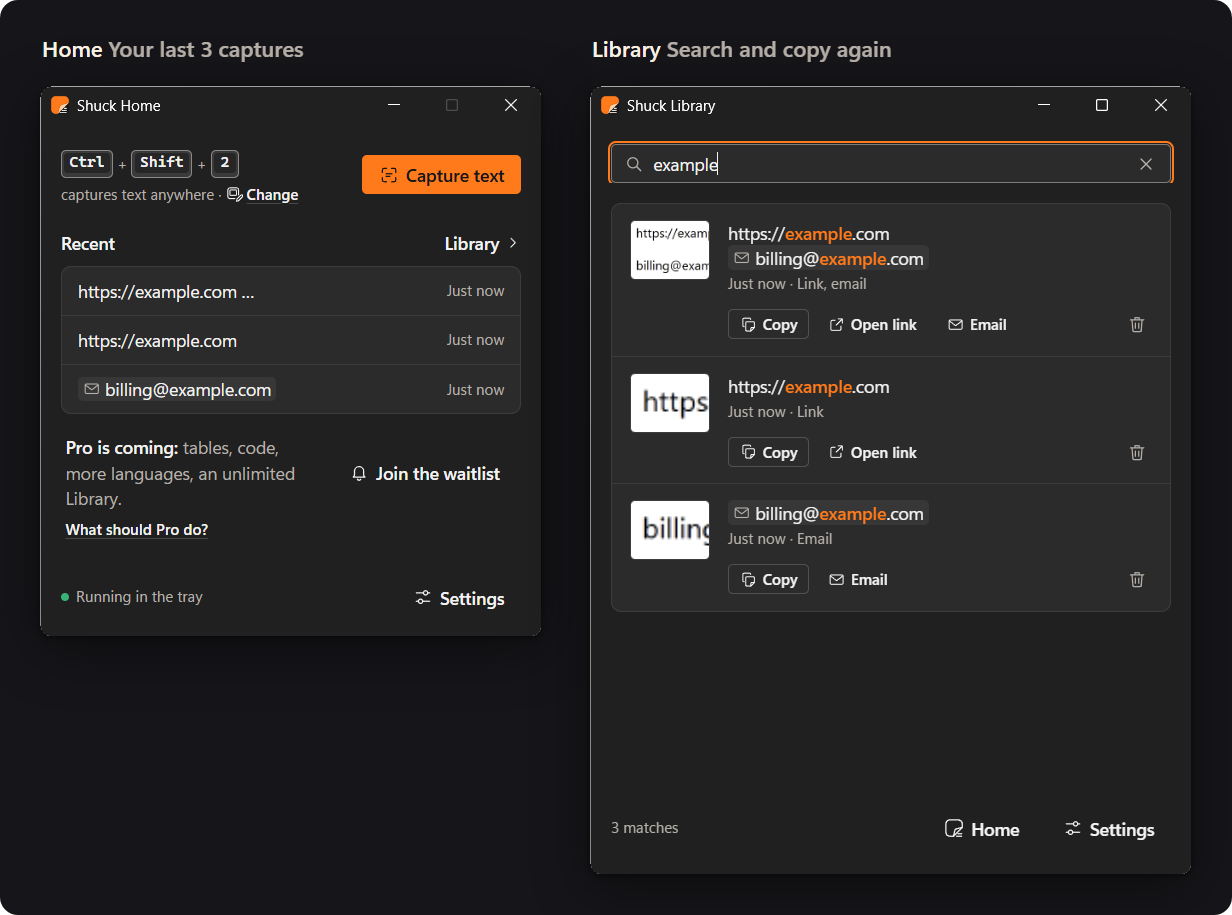
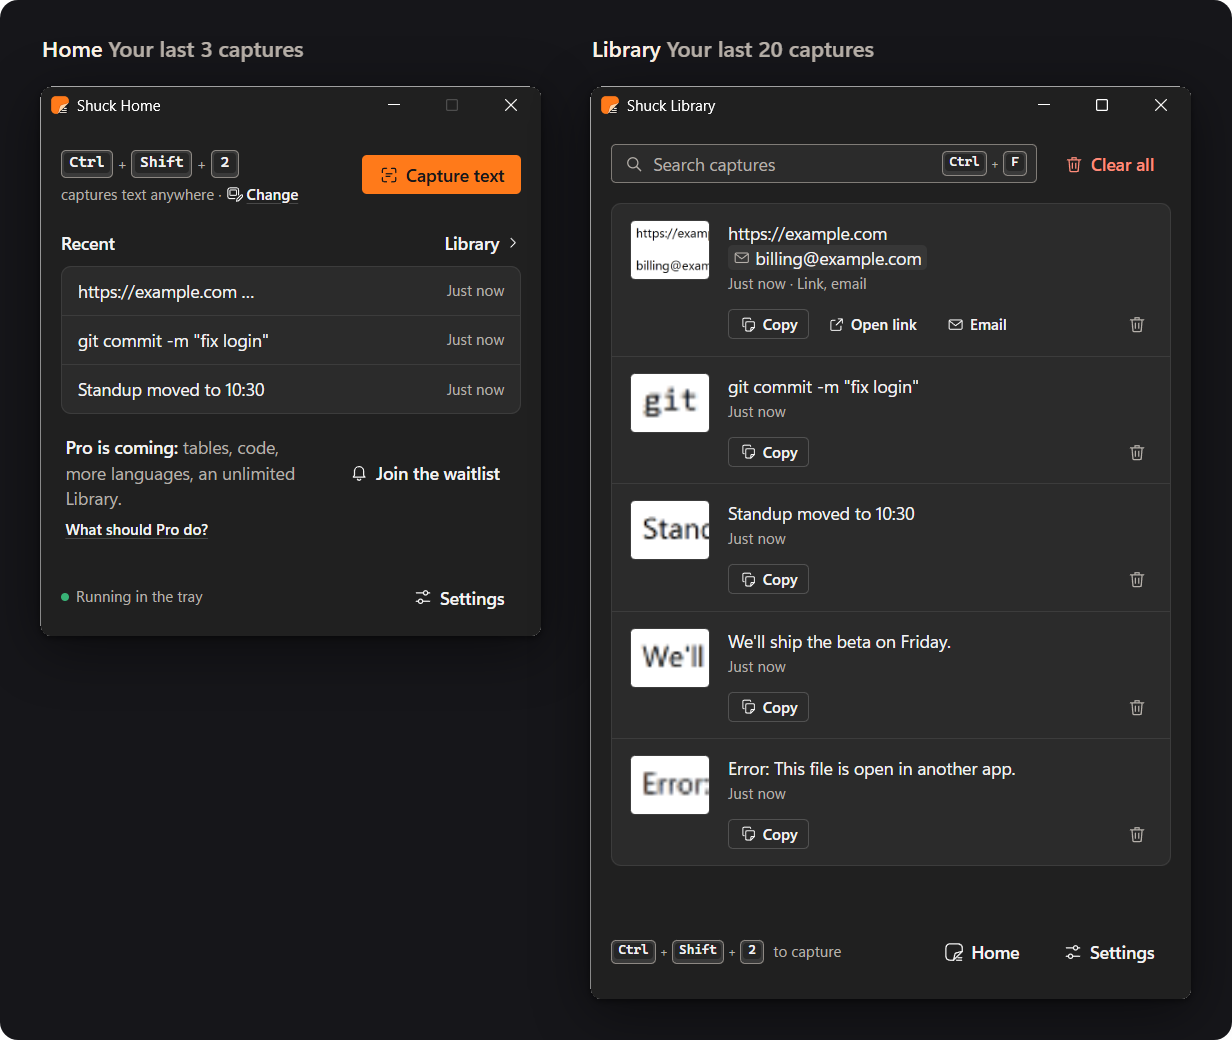
README: reviewed copy and final screenshots

diff --git a/README.md b/README.md
@@ -24,7 +24,7 @@ Free for Windows. Works offline.</p>
 <p align="center">
   <picture>
     <source media="(prefers-color-scheme: dark)" srcset="docs/hero-dark.png">
-    <img src="docs/hero.png" width="880" alt="Dragging a box over the words Pixels in. Text out. Then the notification: Shucked 39 characters, with Open link and Email buttons.">
+    <img src="docs/hero.png" width="880" alt="Dragging a box over a web address and an email address. Then the notification: Shucked 39 characters, with Open link and Email buttons.">
   </picture>
 </p>
 
@@ -47,13 +47,13 @@ Shuck reads the text on your PC. It works offline. You don't need an account, an
 | **Library** | Keeps your last 20 captures. Search them and copy them again. |
 | **Line breaks** | Keep them as they are, or join lines into paragraphs. |
 | **Your own shortcut** | Pick your own keys with Ctrl or Alt. |
-| **Tray app** | Starts with Windows. You can turn this off. |
+| **Tray app** | Waits in the system tray, next to the clock. Starts with Windows. You can turn this off. |
 | **Accessibility** | Works with the keyboard and screen readers. Text size goes up to 225%. |
 
 <p align="center">
   <picture>
     <source media="(prefers-color-scheme: dark)" srcset="docs/windows-dark.png">
-    <img src="docs/windows.png" width="1232" alt="Shuck's main window with recent captures, next to the Library searching for example">
+    <img src="docs/windows.png" width="1232" alt="Shuck Home showing your last 3 captures, next to the Library showing your last 20 captures with Copy buttons">
   </picture>
 </p>
 
@@ -97,7 +97,7 @@ Here's what we're planning:
 
 Tell us what you want in **[What should Pro do?](https://github.com/shuck-app/shuck/discussions/categories/what-should-pro-do)**
 
-In Shuck, you can press **Join the waitlist**. It adds one anonymous count, so we know how many people want Pro. It doesn't sign you up for anything. To hear when Pro is out, watch this repo's releases.
+In Shuck, you can press **Join the waitlist**. It adds one anonymous count, so we know how many people want Pro. It doesn't sign you up for anything. To hear when Pro is out, watch this repo's releases (**Watch → Custom → Releases** at the top of this page).
 
 ## Need help?
 
